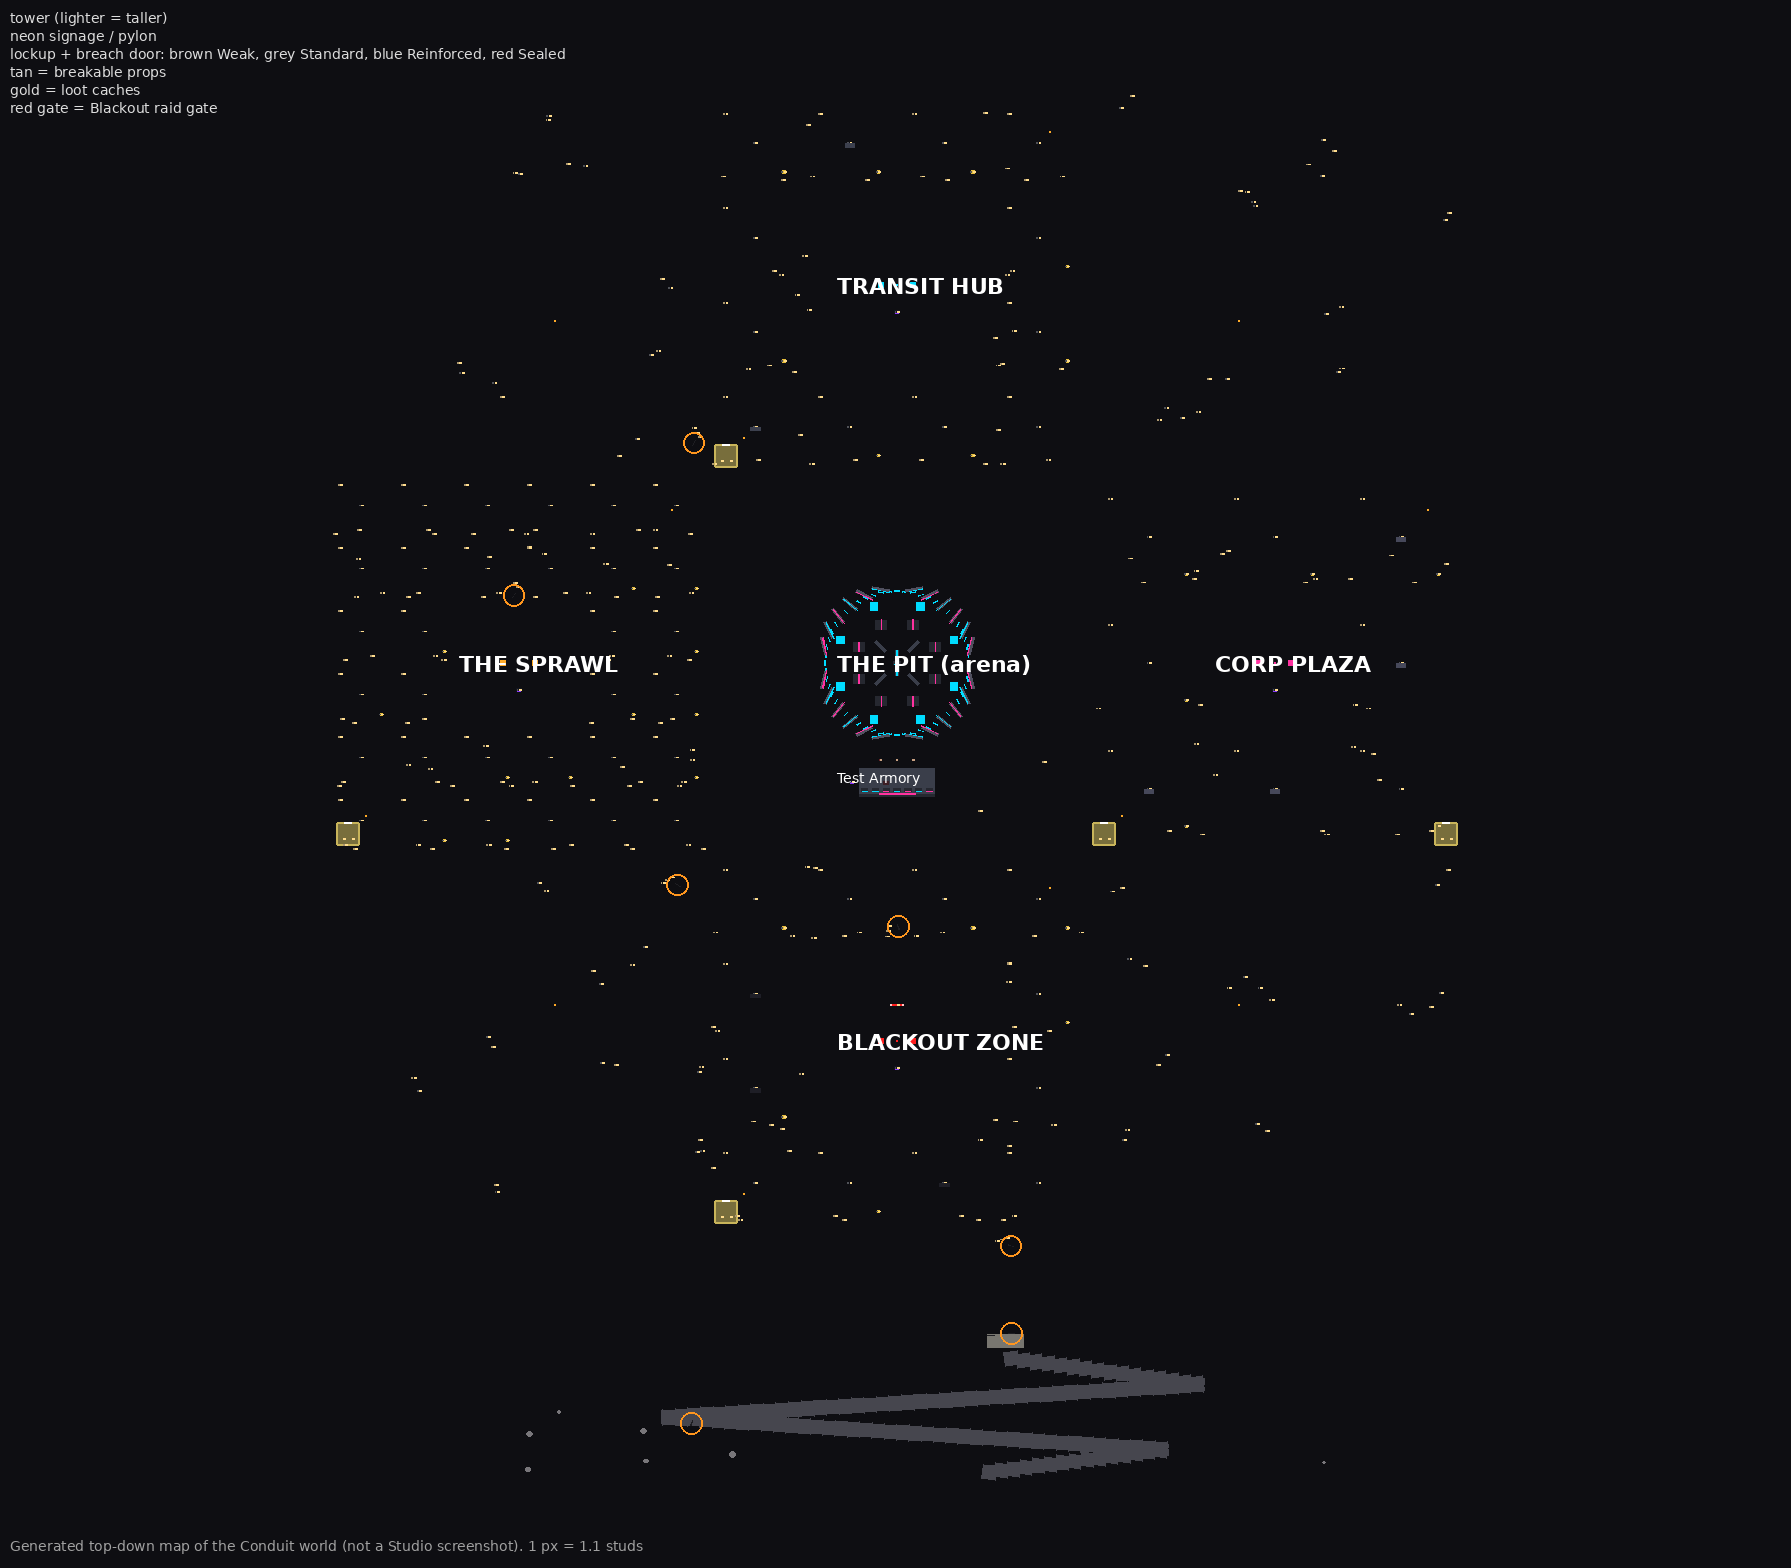
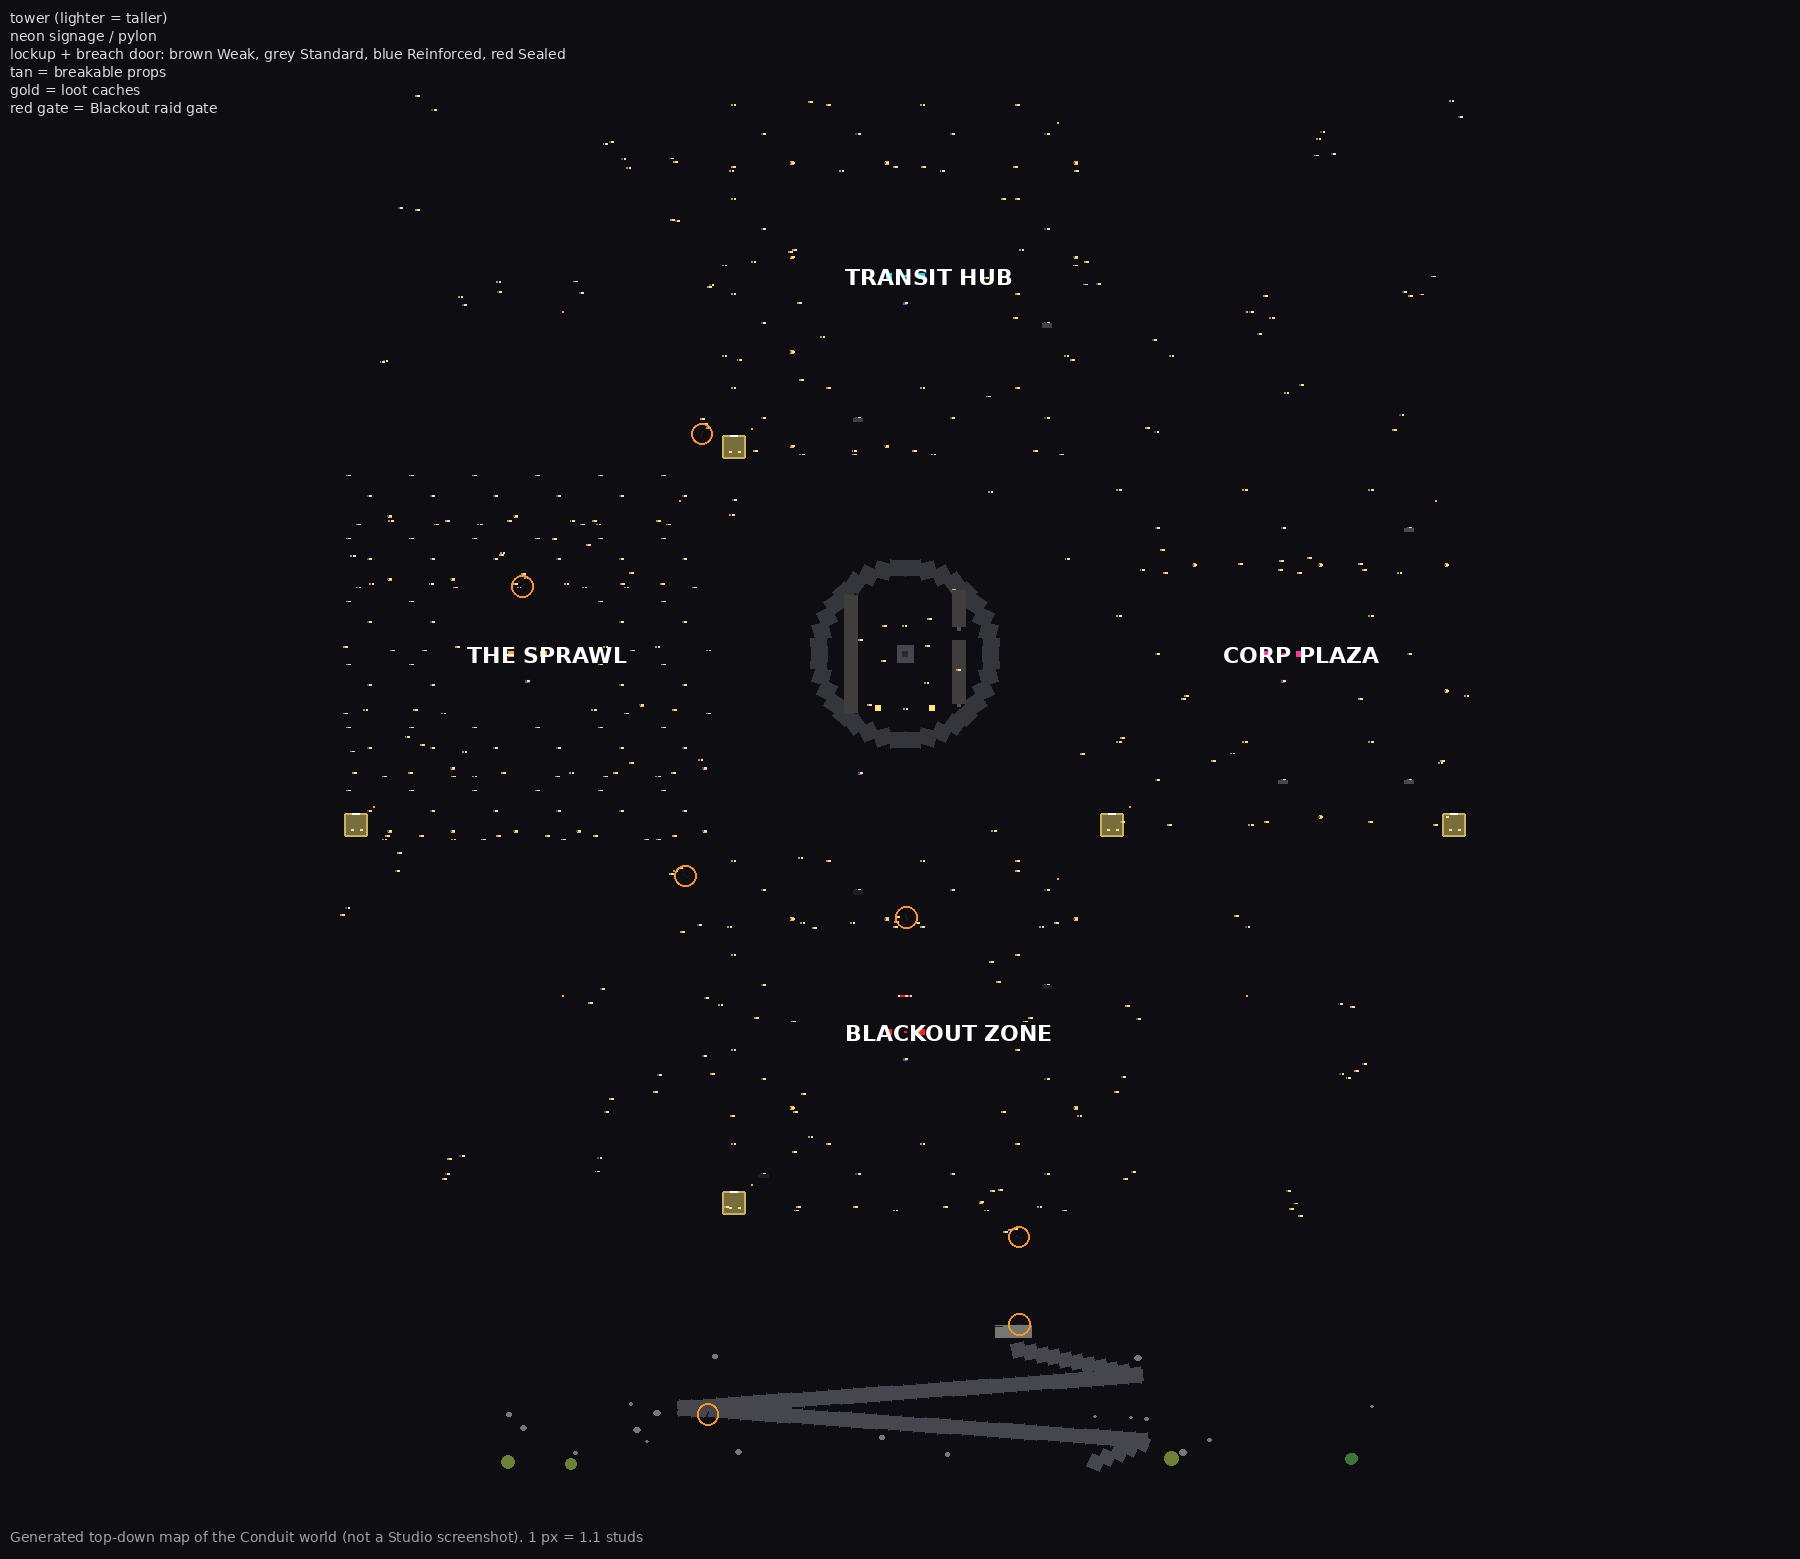
City: the Crossroads at the heart, the test arena off the map
The Pit and the Test Armory now build at Config.Dev.ArenaOrigin (3000 studs
east, own slab, ArenaSpawn pads) so the starting area's centre is a real
place: the Crossroads, where the four districts meet - ring road, obelisk,
collapsed interchange, wrecks, caches, spawn pads, a Medium standing pack
and its own district banner. Stress check tolerates props added mid-run.

Claude-Session: https://claude.ai/code/session_01UtY4zkm8McsSw6bDmiRhoG

diff --git a/tools/smoke/map.py b/tools/smoke/map.py
@@ -101,7 +101,7 @@ for r in rows:
 # labels
 try: font = ImageFont.truetype("/usr/share/fonts/truetype/dejavu/DejaVuSans-Bold.ttf", 22); small = ImageFont.truetype("/usr/share/fonts/truetype/dejavu/DejaVuSans.ttf", 14)
 except Exception: font = small = ImageFont.load_default()
-labels = {"UNION BASE": (-310, 0), "PACT BASE": (310, 0), "THE FRONT": (0, -300)} if FRONT else {"TRANSIT HUB": (0, -420), "CORP PLAZA": (420, 0), "THE SPRAWL": (-420, 0), "BLACKOUT ZONE": (0, 420), "THE PIT (arena)": (0, 0), "Test Armory": (0, 132)}
+labels = {"UNION BASE": (-310, 0), "PACT BASE": (310, 0), "THE FRONT": (0, -300)} if FRONT else {"TRANSIT HUB": (0, -420), "CORP PLAZA": (420, 0), "THE SPRAWL": (-420, 0), "BLACKOUT ZONE": (0, 420)}
 if WORLD:
     labels.update({"THE SCARP": (120, 745), "SWITCHBACKS": (-420, 860), "THE PEAKS": (560, 2200)})
     if os.path.exists(sys.argv[1] + ".labels"):

diff --git a/README.md b/README.md
@@ -43,7 +43,8 @@ every player has finished or skipped (and 30s have passed) the world opens early
 `Config.Tutorial.Enabled = false` restores the short timed prologue.
 
 ## The city, raids and devouring
-- **City** (`src/server/City.lua`, map: `docs/maps/conduit_map.png`): four generated districts around the Pit, with ruined outskirts filling the corners between them - Transit Hub (low danger), Corp Plaza and
+- **City** (`src/server/City.lua`, map: `docs/maps/conduit_map.png`): four generated districts around the Crossroads (the
+  city's heart: ring road, obelisk, a collapsed interchange, caches and a standing pack), with ruined outskirts filling the corners between them - Transit Hub (low danger), Corp Plaza and
   The Sprawl (medium), Blackout Zone (high). Ruined towers with ledges, rubble, neon signage, a pylon per district for
   navigation, refilling loot caches, and a banner when you cross into a district. Replace any district with hand-built
   art later; the generator is only there so the world exists now.
@@ -180,6 +181,7 @@ profile (same ProfileService store, same universe). Code lives in `src/war/` and
 - **Playtest checklist**: `docs/TESTING.md`.
 
 ## Test arena
+Built 3000 studs east of the city (`Config.Dev.ArenaOrigin`), off the map; F2 "Armory" teleports there.
 With `Config.Dev.Enabled = true` (default for now) the prologue is 15s and the world opens into a generated neon arena:
 ring with 4 gates, pillars, cover, a center platform and 8 spawn pads. The **Test Armory** outside the south gate has free
 weapons / armor / cybernetics / materials, an Instructor (+10 attribute points), Respec, Recharge (also on the center

diff --git a/docs/TESTING.md b/docs/TESTING.md
@@ -1,7 +1,7 @@
 # Playtest checklist
 
 Grows as features land. Tick what works, note what doesn't (an F9 → Client/Server tab screenshot is the most useful
-report). Versions: Endeavor v55, Front v19.
+report). Versions: Endeavor v56, Front v19.
 
 ## Endeavor: first minutes
 - [ ] The starting room is a pod: dark panelled walls with cyan seams, diamond-plate floor, the console in a terminal
@@ -159,6 +159,14 @@ report). Versions: Endeavor v55, Front v19.
 - [ ] Dead drop: a purple stash at a numbered hideout site, announced to everyone.
 - [ ] Quests cycle through: scrap run, raiders, medkit, bounty, survey, brute, raid, wrecker (break 10), catcher,
       black flash, tap in (deploy to the Front), shockers. Completing one assigns the next.
+
+## Endeavor: the Crossroads (the city's heart)
+- [ ] The centre of the city is no longer the test arena: it is the Crossroads, where the four districts meet. A ring
+      road, a 46-stud obelisk with a yellow seam lit from below, a collapsed interchange (one span up on pillars, one
+      fallen at an angle, a stub), wrecks and rubble, two caches under the span, two spawn pads, and a standing pack.
+- [ ] Walking into it banners "The Crossroads - danger: Medium"; it counts for the Survey quest.
+- [ ] The Pit and the Test Armory still exist, 3000 studs east off the map on their own slab; F2 "Go to: Armory" gets
+      there and back ("Go" on any district). Nobody spawns there any more.
 
 ## Endeavor: north of the wall (the frontier)
 Maps: `docs/maps/world_map_seed7919.png` and `world_map_seed23757.png` (two rolls). The valley is a 9x8 grid of

diff --git a/CLAUDE.md b/CLAUDE.md
@@ -60,7 +60,7 @@ store `ConduitCharacter_v2`) is shared by both places.
   K artillery, F dig, V sandbags, M app.
 
 ## State (2026-10-31)
-- Both places published and starting cleanly (Endeavor v55, Front v19). Front v10 verified on a real server:
+- Both places published and starting cleanly (Endeavor v56, Front v19). Front v10 verified on a real server:
   Battlefield.Init builds 57 mesh structures, 621 sandbag nests, 14 wrecks, 36 hedgehogs, 27 crates in 3.9s, no warnings.
   Spawn fall-through fixed by anchoring the
   character for Config.SpawnSettle after placing it.
@@ -186,6 +186,10 @@ store `ConduitCharacter_v2`) is shared by both places.
   set Config.Frontier.Seed to draw a given roll). Live probe pattern: scratch `probe_frontier.lua` (City.Init +
   Frontier.Init + Populate, raycast heights vs Frontier.Height).
   Trees/rocks/tents/domes are parts (no Blender kit yet): the next art pass.
+
+- The test arena (Arena.lua: the Pit, armory, mannequins, dummies) is built at `Config.Dev.ArenaOrigin` (3000, 0, 0),
+  off the map, on its own slab; its pads are tagged ArenaSpawn, not CitySpawn. The city's centre is `City.buildCrossroads`
+  ("The Crossroads", Medium: `City.Crossroads`, `City.DistrictAt` returns it within 110 studs; Population adds a pack).
 
 ## Open items
 - Awaiting the user's in-game look at the rigs (animation playback can't be verified from the Luau execution API).
